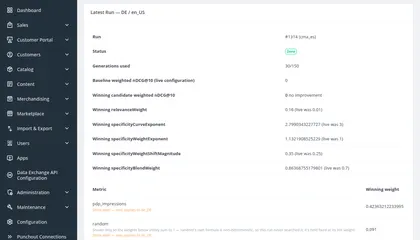
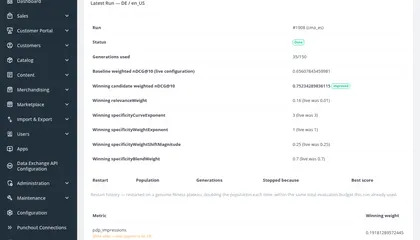
Refresh screenshots and merge the two specificity cards into one
Consolidate the generic/specific query specificity examples into a
single card with a description of the mechanism itself, and switch
SVG-sourced mockups (search-variant-facets) from WebP to PNG to avoid
a Chrome GPU rasterization bug on flat vector art.

diff --git a/_data/de.js b/_data/de.js
@@ -52,7 +52,7 @@ export default {
       title: "Relevanz-Datensatz",
       lead: "Basis jeder Optimierung ist eine repräsentative Stichprobe aus Suchanfragen und manuell bewerteten Suchergebnissen.",
       body: [
-        "Jeder Query werden Produkte sowie deren Soll-Relevanz zugewiesen. Die Qualität der optimierten Formel steht und fällt mit der Güte dieses Datensatzes — er sollte typische Suchmuster, Spezialfälle und geschäftskritische Anfragen gleichermaßen abdecken.",
+        "Jeder Query werden Produkte sowie deren Soll-Relevanz zugewiesen. Die Qualität der optimierten Formel steht und fällt mit der Güte und Größe dieses Datensatzes — er sollte typische Suchmuster, Spezialfälle und geschäftskritische Anfragen gleichermaßen abdecken.",
       ],
       tag: "Der Datensatz ist vom Optimierungsalgorithmus entkoppelt und kann sich bei Katalog- und Sortimentsänderungen kontinuierlich weiterentwickeln.",
       visual: {
@@ -108,7 +108,7 @@ export default {
       id: "optimization-parameters",
       index: "4 / 5",
       title: "Optimale Parameter",
-      lead: "Nach Abschluss des Optimierungslaufs wird der performanteste Parametersatz als neue Runtime-Konfiguration übernommen.",
+      lead: "Nach Abschluss des Optimierungslaufs kann der performanteste Parametersatz als neue Runtime-Konfiguration übernommen werden.",
       body: [
         "Zu den optimierten Werten gehören unter anderem der Spezifitätsexponent, die Textgewichtung, die Gewichte der Business-Signale sowie die maximale Spezifitätsverschiebung — exakt die Parameter aus der dargestellten Formel.",
       ],
@@ -233,7 +233,7 @@ export default {
       title: "Parameter kalibrieren",
       lead: "k<sub>spec</sub>, β, p, γ und m basieren nicht auf Schätzungen, sondern werden wie der Rest der Formel systematisch kalibriert.",
       body: [
-        "Die Sättigungspunkt-Kalibrierung von Search Ranking Optimizer bietet einen eigenen Specificity-Modus: Sie wertet echte Suchanfragen aus und leitet k<sub>spec</sub> direkt aus deren Verteilung ab. Die verbleibenden Shift-Parameter werden automatisiert vom Optimizer durchsucht.",
+        "Die Sättigungspunkt-Kalibrierung von Search Ranking Optimizer bietet einen eigenen Specificity-Modus: Sie wertet echte Suchanfragen aus und leitet k<sub>spec</sub> direkt aus deren Verteilung ab. Die verbleibenden Shift-Parameter werden automatisiert vom Optimizer durchsucht (siehe Tab „Optimierung“ oben).",
       ],
       tag: "Derselbe Kalibrierungs- und Optimierungsablauf, angewendet auf die Spezifitätsparameter.",
       visual: {
@@ -280,7 +280,7 @@ export default {
       lead: "Der Parameter k definiert den Schwellenwert, an dem die normalisierte Relevanz exakt 0,5 erreicht.",
       body: [
         "Gilt <strong>score = k</strong>, liefert der Relevanzterm genau <strong>0,5</strong>. Kleinere Werte führen zu einer früheren Sättigung; größere Werte erhalten die Feinabstimmung bei hohen Elasticsearch-Scores aufrechterhalten.",
-        "Statt k manuell zu raten, ermittelt Search Ranking praxisnahe Richtwerte: Auf Basis importierter CSV-Queries und einer definierten Auswertungs-Tiefe analysiert das Package die Top-Treffer und schlägt den gemessenen Mittelwert der <code>_score</code>-Werte als Startpunkt für k vor.",
+        "Statt k manuell zu raten, ermittelt Search Ranking praxisnahe Richtwerte: Auf Basis eines Query-Sets aus CSV-Import oder Admin-Bewertung und einer definierten Auswertungs-Tiefe analysiert das Package die Top-Treffer und schlägt den gemessenen Mittelwert der <code>_score</code>-Werte als Startpunkt für k vor.",
       ],
       implementation: "Test-Queries + Stichprobentiefe → Gemessene _score-Verteilung → Empfohlenes k",
     },
@@ -304,7 +304,7 @@ export default {
       title: "Einheitliche Signalgewichtung",
       lead: "Alle eingegebenen Signalgewichte werden automatisch so normiert, dass ihre Summe stets 1 ergibt.",
       body: [
-        "Die Fachredaktion kann relative Verhältnisse angeben, ohne manuell eine Gesamtsumme von 100 % ausrechnen zu müssen. Die Eingaben 30 und 10 werden automatisch zu 0,75 und 0,25 umgerechnet.",
+        "In Zed können Administratoren relative Verhältnisse angeben, ohne manuell eine Gesamtsumme von 100 % ausrechnen zu müssen. Die Eingaben 30 und 10 werden automatisch zu 0,75 und 0,25 umgerechnet.",
         "Diese Umrechnung erfolgt einmalig beim Publizieren der Konfiguration, damit Anfragen zur Laufzeit schlank bleiben.",
       ],
       implementation: "w<sub>i</sub> = enteredWeight<sub>i</sub> / Σ enteredWeight<sub>j</sub>",
@@ -334,7 +334,7 @@ export default {
       {
         small: "Feedback",
         title: "Search Feedback",
-        desc: "Ermöglicht autorisierten Admins im Storefront das Erstellen von Feedback-Tickets zu konkreten Suchergebnissen.",
+        desc: "Ermöglicht Admins im Storefront das Erstellen von Feedback-Tickets zu konkreten Suchergebnissen.",
         href: "https://github.com/andrebarthelmeshellmuth/spryker-search-feedback",
         githubAriaLabel: "Search Feedback auf GitHub ansehen",
         screenshotsAnchor: "search-feedback",
@@ -439,7 +439,7 @@ export default {
     heading: "Ursprung",
     paragraph1Pre: "Das Projekt basiert auf Sprykers",
     paragraph1LinkText: "Data-driven ranking",
-    paragraph1Post: "Best-Practice-Leitfaden. Dieser beschreibt ein bewährtes Praxissystem, das ursprünglich von Martin Loetsch und Krešimir Slugan bei Contorion entwickelt wurde — Spryker lieferte im Core lediglich das Dokument, aber keine Implementierung mit.",
+    paragraph1Post: "Best-Practice-Leitfaden. Dieser beschreibt ein bewährtes Praxissystem, das ursprünglich von Martin Loetsch und Krešimir Slugan für Contorion konzipiert und implementiert wurde. Spryker selbst liefert hierfür keinen Quellcode, lediglich obige Anleitung.",
     paragraph2: "search-ranking und search-ranking-optimizer setzen dieses Konzept für die Spryker-Architektur um und erweitern es um Funktionen wie Store-/Locale-Scoping, spezifitätsbasierte Relevanzgewichtung und automatisierte Blackbox-Optimierung.",
   },
   footer: {
